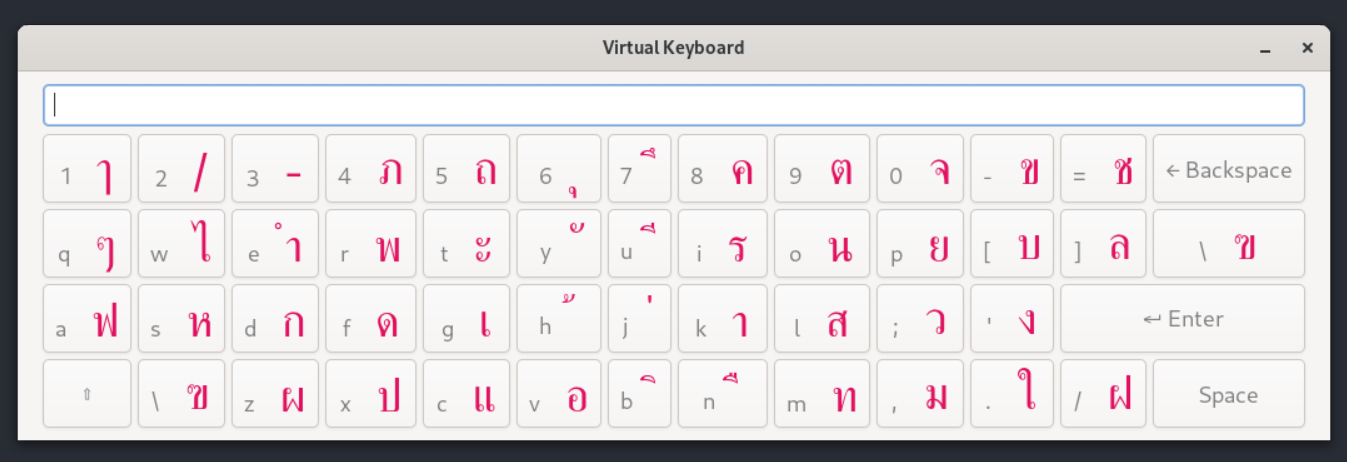
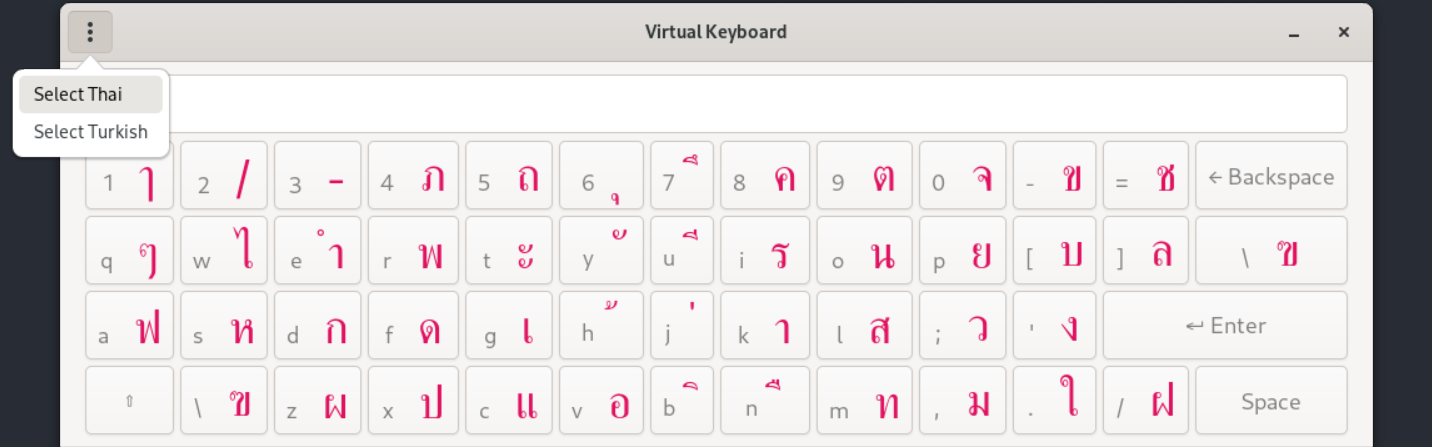
small fix

Changed region(s): [[0.0, 0.0, 0.9978, 1.0]]

diff --git a/keyboard.py b/keyboard.py
@@ -62,6 +62,7 @@ class KeyboardApp(Gtk.Application):
         language: str = action_name.split("-")[1]
         self.generate_grid_buttons(language)
         self.current_langauge = language
+        self.enabled_shift = False
 
     def do_activate(self):
         window: Gtk.ApplicationWindow = Gtk.ApplicationWindow(application=self, title="Virtual Keyboard")

diff --git a/README.md b/README.md
@@ -4,12 +4,16 @@ I have realized I need a some sort of virtual keyboard so that I can type differ
 
 ![screenshot](./screenshot.png)
 
+![screenshot](./thai-screenshot.png)
+
+![screenshot](./turkish-screenshot.png)
+
 ### Dependencies
 
 - Python (>=3.12)
 - GTK 4 (you can see what you need to download on [here](https://gnome.pages.gitlab.gnome.org/pygobject/getting_started.html))
 
-Note: please do not do global system installation of poetry defined dependencies through pip, poetry already installs it!
+Note: please do not do global system installation of python dependencies through pip, poetry already installs it!
 
 #### Linux
 
@@ -22,9 +26,9 @@ python ./keyboard.py
 
 - [X] Design the layout for buttons with label size and color
 - [X] Finish the text area input implementation with Gtk.Entry
-- [ ] Key Event Presses on itself and maybe on other tabs too
-- [ ] All tests for unicodes validity
+- [X] Add sub-menu to pick target languages
+- [ ] Key Event presses follows target language mapping
+- [ ] Bug fix on grid grow / shrink not adapting the window
 - [X] Port it to GTK 4
 - [ ] (optional) Use multi-line text area input implementation with Gtk.TextView
 - [ ] (optional) Release executable binaries for linux/windows/macosx through GH releases
-
